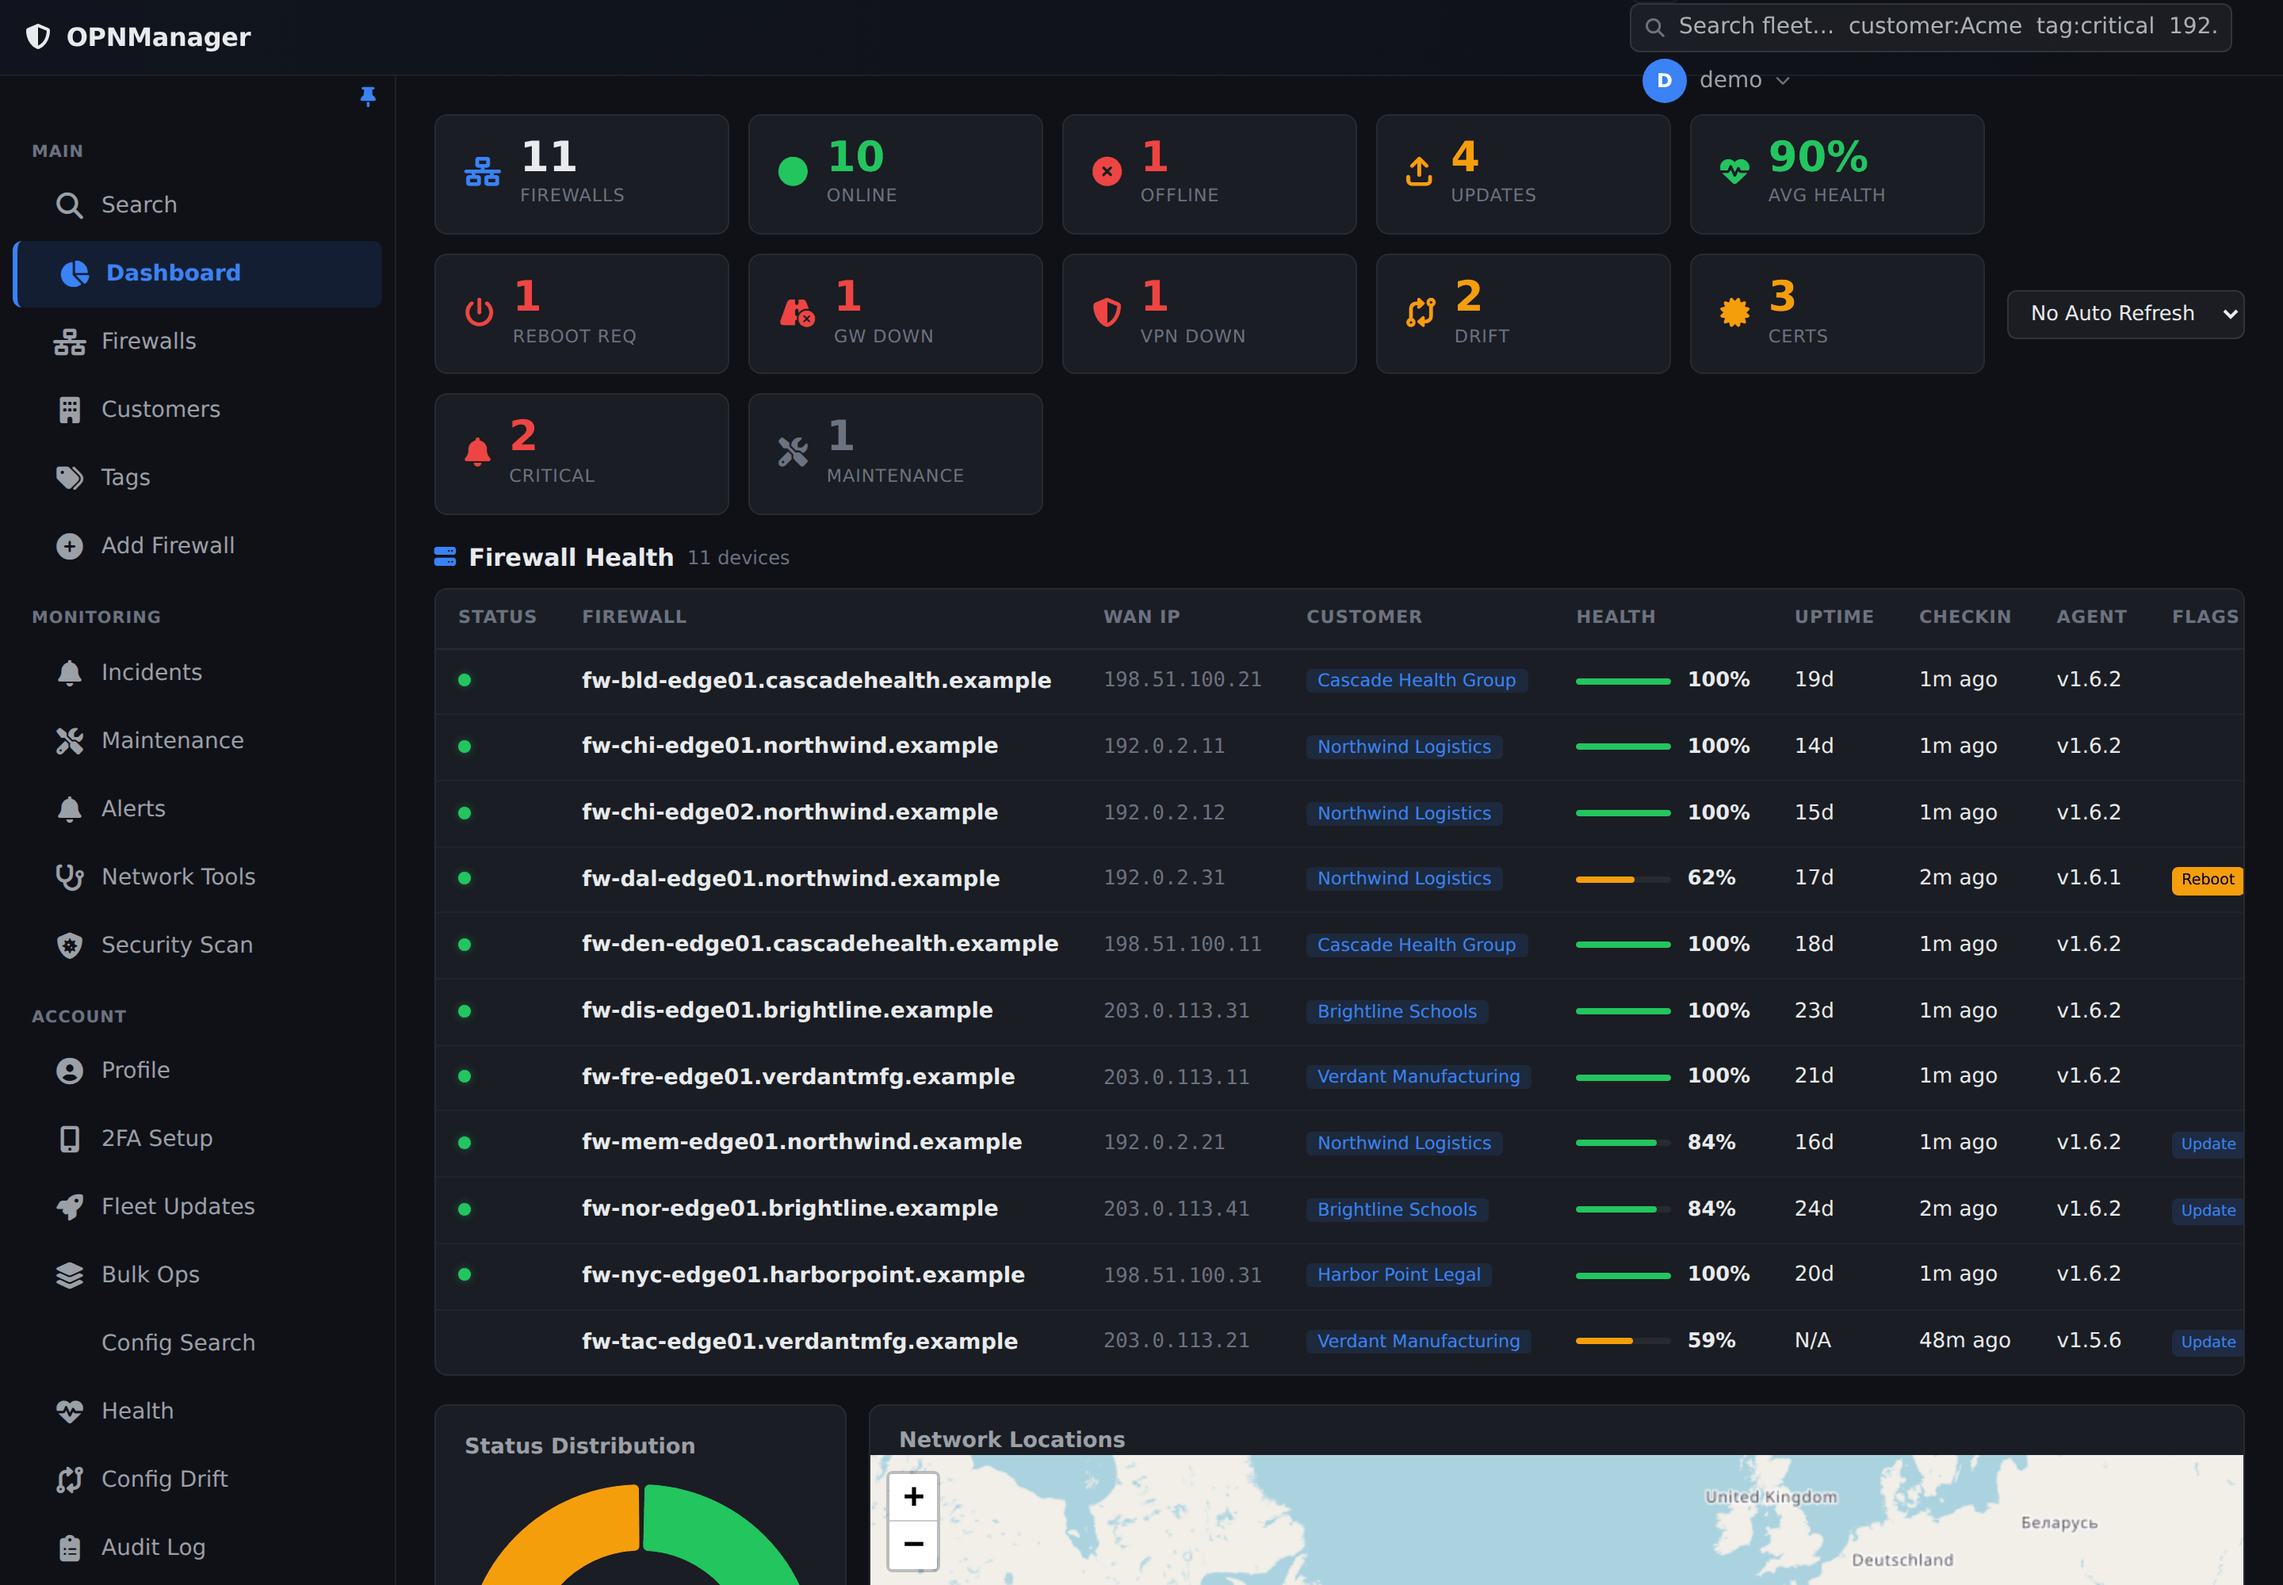
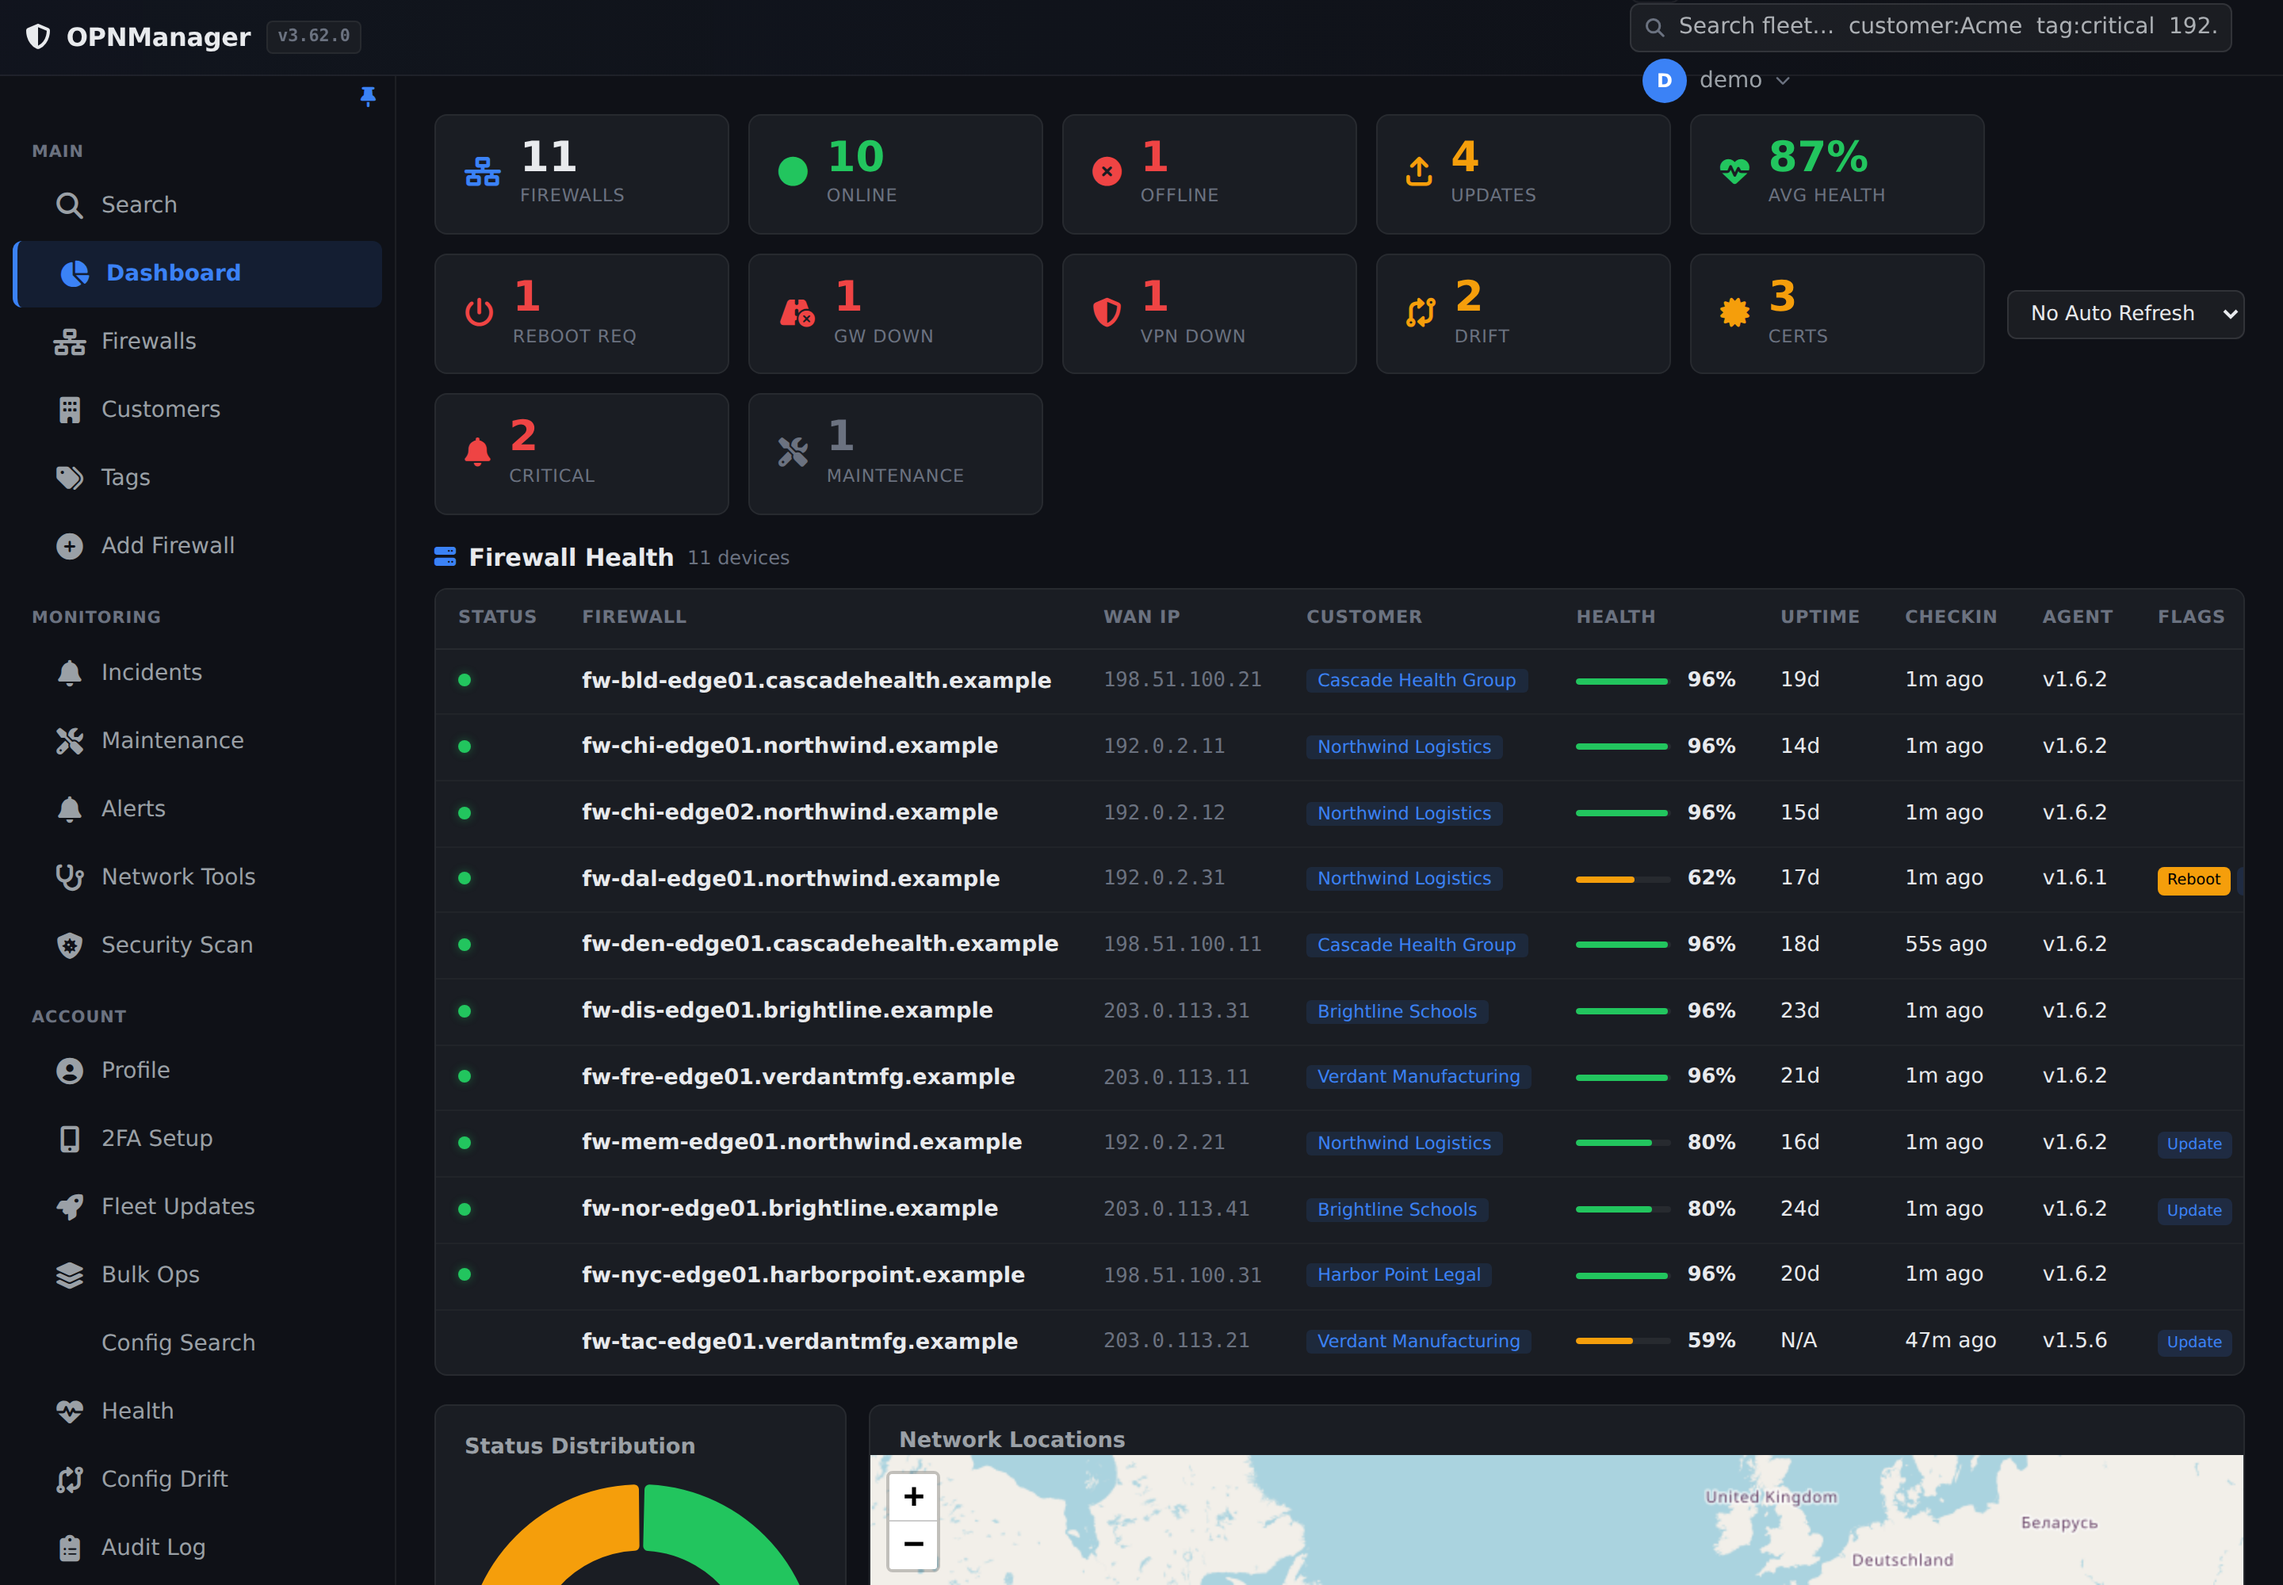
v3.63.0: recaptured
All 28 documentation screenshots regenerated against the current build, so
they show the version in the header and the grouped admin menu rather than a
product two days out of date.

The capture script reported a skeleton page on every run:

    settings-dark                dark   309KB  SKELETON?

It tested body.innerHTML for "Loading..." regardless of visibility, and
settings.php carries one in an unopened tunnels table that JavaScript
replaces. A real skeleton would have been indistinguishable from the false
alarm everyone had learned to ignore. It now counts only a placeholder that
is actually on screen.

- captures were taken in an isolated environment and it was dismantled
  afterwards: a throwaway database, web root, account and server, all
  removed, production confirmed untouched. The fixture's own assertion that
  a demo fleet has no command-queue rows passed
- the annotated figures in the User Guide were re-rendered against the new
  images and checked marker by marker, because coordinates placed over one
  screenshot are not automatically right over another

diff --git a/scripts/capture_demo_screenshots.js b/scripts/capture_demo_screenshots.js
@@ -197,7 +197,23 @@ const FREEZE_CSS = `*,*::before,*::after{animation:none!important;
     const check = await page.evaluate(() => ({
       theme: document.documentElement.getAttribute('data-theme'),
       overflow: document.documentElement.scrollWidth > window.innerWidth + 2,
-      skeleton: /Loading\.\.\.|Please wait|spinner-border/i.test(document.body.innerHTML),
+      // Only count a placeholder that is actually on screen. Testing
+      // body.innerHTML flagged any page carrying a hidden "Loading..." row that
+      // JavaScript later replaces - settings.php has one in an unopened tunnels
+      // table - so every run reported a skeleton that was not there, which
+      // teaches you to ignore the warning and defeats the check.
+      skeleton: (() => {
+        const rx = /Loading\.\.\.|Please wait/i;
+        return [...document.querySelectorAll('body *')].some((el) => {
+          if (el.children.length) return false; // leaf nodes carry the text
+          const hit = rx.test(el.textContent || '') || el.classList.contains('spinner-border');
+          if (!hit) return false;
+          const r = el.getBoundingClientRect();
+          if (r.width === 0 || r.height === 0) return false;
+          const st = getComputedStyle(el);
+          return st.visibility !== 'hidden' && st.display !== 'none' && st.opacity !== '0';
+        });
+      })(),
       broken: [...document.images].filter((i) => i.complete && i.naturalWidth === 0).length,
     }));
     manifest.push({ name, url: t.url, theme: t.theme, tab: t.tab || null,

diff --git a/inc/version.php b/inc/version.php
@@ -12,7 +12,7 @@ $app_version = file_exists($version_file) ? trim(file_get_contents($version_file
 if (!defined('APP_NAME')) { define('APP_NAME', 'OPNManager'); }
 if (!defined('APP_VERSION')) { define('APP_VERSION', $app_version); }
 if (!defined('APP_VERSION_DATE')) { define('APP_VERSION_DATE', '2026-09-17'); }
-if (!defined('APP_VERSION_NAME')) { define('APP_VERSION_NAME', 'Ten Entries, One Row'); }
+if (!defined('APP_VERSION_NAME')) { define('APP_VERSION_NAME', 'Recaptured'); }
 
 // AGENT_VERSION is THE single constant for "newest agent available to install".
 // Its value must match the newest released tarball in downloads/plugins/, because
@@ -43,6 +43,18 @@ function getChangelogEntries($limit = 10) {
     // $limit was accepted and ignored: about.php asks for 3 and rendered the
     // entire history. Slice before returning.
     $entries = [
+        [
+            'version' => '3.63.0',
+            'date' => '2026-09-17',
+            'type' => 'minor',
+            'title' => 'Recaptured',
+            'changes' => [
+                'CHANGED: All 28 documentation screenshots regenerated against the current build, so they show the version in the header and the grouped admin menu rather than a product two days out of date',
+                'FIXED: The capture script reported a skeleton page on every run. It tested body.innerHTML for "Loading..." regardless of visibility, and settings.php carries one in an unopened tunnels table that JavaScript replaces - so a real skeleton would have been indistinguishable from the false alarm everyone had learned to ignore. It now only counts a placeholder that is on screen',
+                'CHANGED: Captures were taken in an isolated environment and it was dismantled afterwards - a throwaway database, web root, account and server, all removed, with the production database confirmed untouched. The fixture\'s own assertion that a demo fleet has no command-queue rows passed',
+                'ADDED: The annotated figures in the User Guide were re-rendered against the new images and checked marker by marker, because coordinates placed over one screenshot are not automatically right over another',
+            ],
+        ],
         [
             'version' => '3.62.0',
             'date' => '2026-09-17',

diff --git a/CHANGELOG.md b/CHANGELOG.md
@@ -6,6 +6,45 @@ All notable changes to OPNManager are documented here.
 
 ---
 
+## Version 3.63.0
+**Released**: September 17, 2026 | **Agent**: v1.6.7
+
+### Changed
+
+- **All 28 documentation screenshots regenerated** against the current build, so
+  they show the version in the header and the grouped admin menu rather than a
+  product two days out of date.
+- Captures were taken in an **isolated environment that was dismantled
+  afterwards**: a throwaway database, web root, account and server, all removed,
+  with the production database confirmed untouched. The fixture's own assertion
+  that a demo fleet has no command-queue rows passed.
+- The annotated figures in the User Guide were **re-rendered against the new
+  images and checked marker by marker**, because coordinates placed over one
+  screenshot are not automatically right over another.
+
+### Fixed
+
+- **The capture script reported a skeleton page on every run.**
+
+  ```
+  settings-dark                dark   309KB  SKELETON?
+  ```
+
+  It tested `body.innerHTML` against `/Loading\.\.\.|Please wait|spinner-border/`
+  regardless of visibility, and `settings.php` carries one in an unopened tunnels
+  table that JavaScript replaces:
+
+  ```html
+  <tbody id="tunnels-table-body">
+    <tr><td colspan="8"><i class="fas fa-spinner fa-spin"></i>Loading...</td></tr>
+  ```
+
+  A real skeleton would have been indistinguishable from the false alarm everyone
+  had learned to ignore. It now counts only a placeholder that is actually on
+  screen.
+
+---
+
 ## Version 3.62.0
 **Released**: September 17, 2026 | **Agent**: v1.6.7
 

diff --git a/README.md b/README.md
@@ -6,7 +6,7 @@
 
 [![CI](https://github.com/agit8or1/OPNMGR/actions/workflows/ci.yml/badge.svg?branch=main)](https://github.com/agit8or1/OPNMGR/actions/workflows/ci.yml)
 [![License: MIT](https://img.shields.io/badge/license-MIT-green)](LICENSE)
-[![v3.62.0](https://img.shields.io/badge/version-3.62.0-blue)](CHANGELOG.md)
+[![v3.63.0](https://img.shields.io/badge/version-3.63.0-blue)](CHANGELOG.md)
 
 [Quick Start](#quick-start) ·
 [Screenshots](docs/SCREENSHOTS.md) ·
@@ -176,12 +176,12 @@ The agent installs as a native plugin, checks in every two minutes by default, l
 
 | | Version | Notes |
 |---|---|---|
-| Application | 3.62.0 | Install from `main`. |
+| Application | 3.63.0 | Install from `main`. |
 | Agent | v1.6.7 | Newest published package. Not in this repo — see Known limitations. |
 | Minimum supported agent | 1.3.0 | Not enforced at check-in: older agents still report in, but lose health score and version-gated features. |
 | Database schema | 1.4.0 | `database/schema.sql`, regenerated by `scripts/generate_schema.sh`. |
 
-CI enforces these against `VERSION` and the published artifact — application 3.62.0,
+CI enforces these against `VERSION` and the published artifact — application 3.63.0,
 **Agent**: v1.6.7 — so no reference in the tree can drift out of step.
 
 Feature availability depends on the agent version a firewall is actually running:
